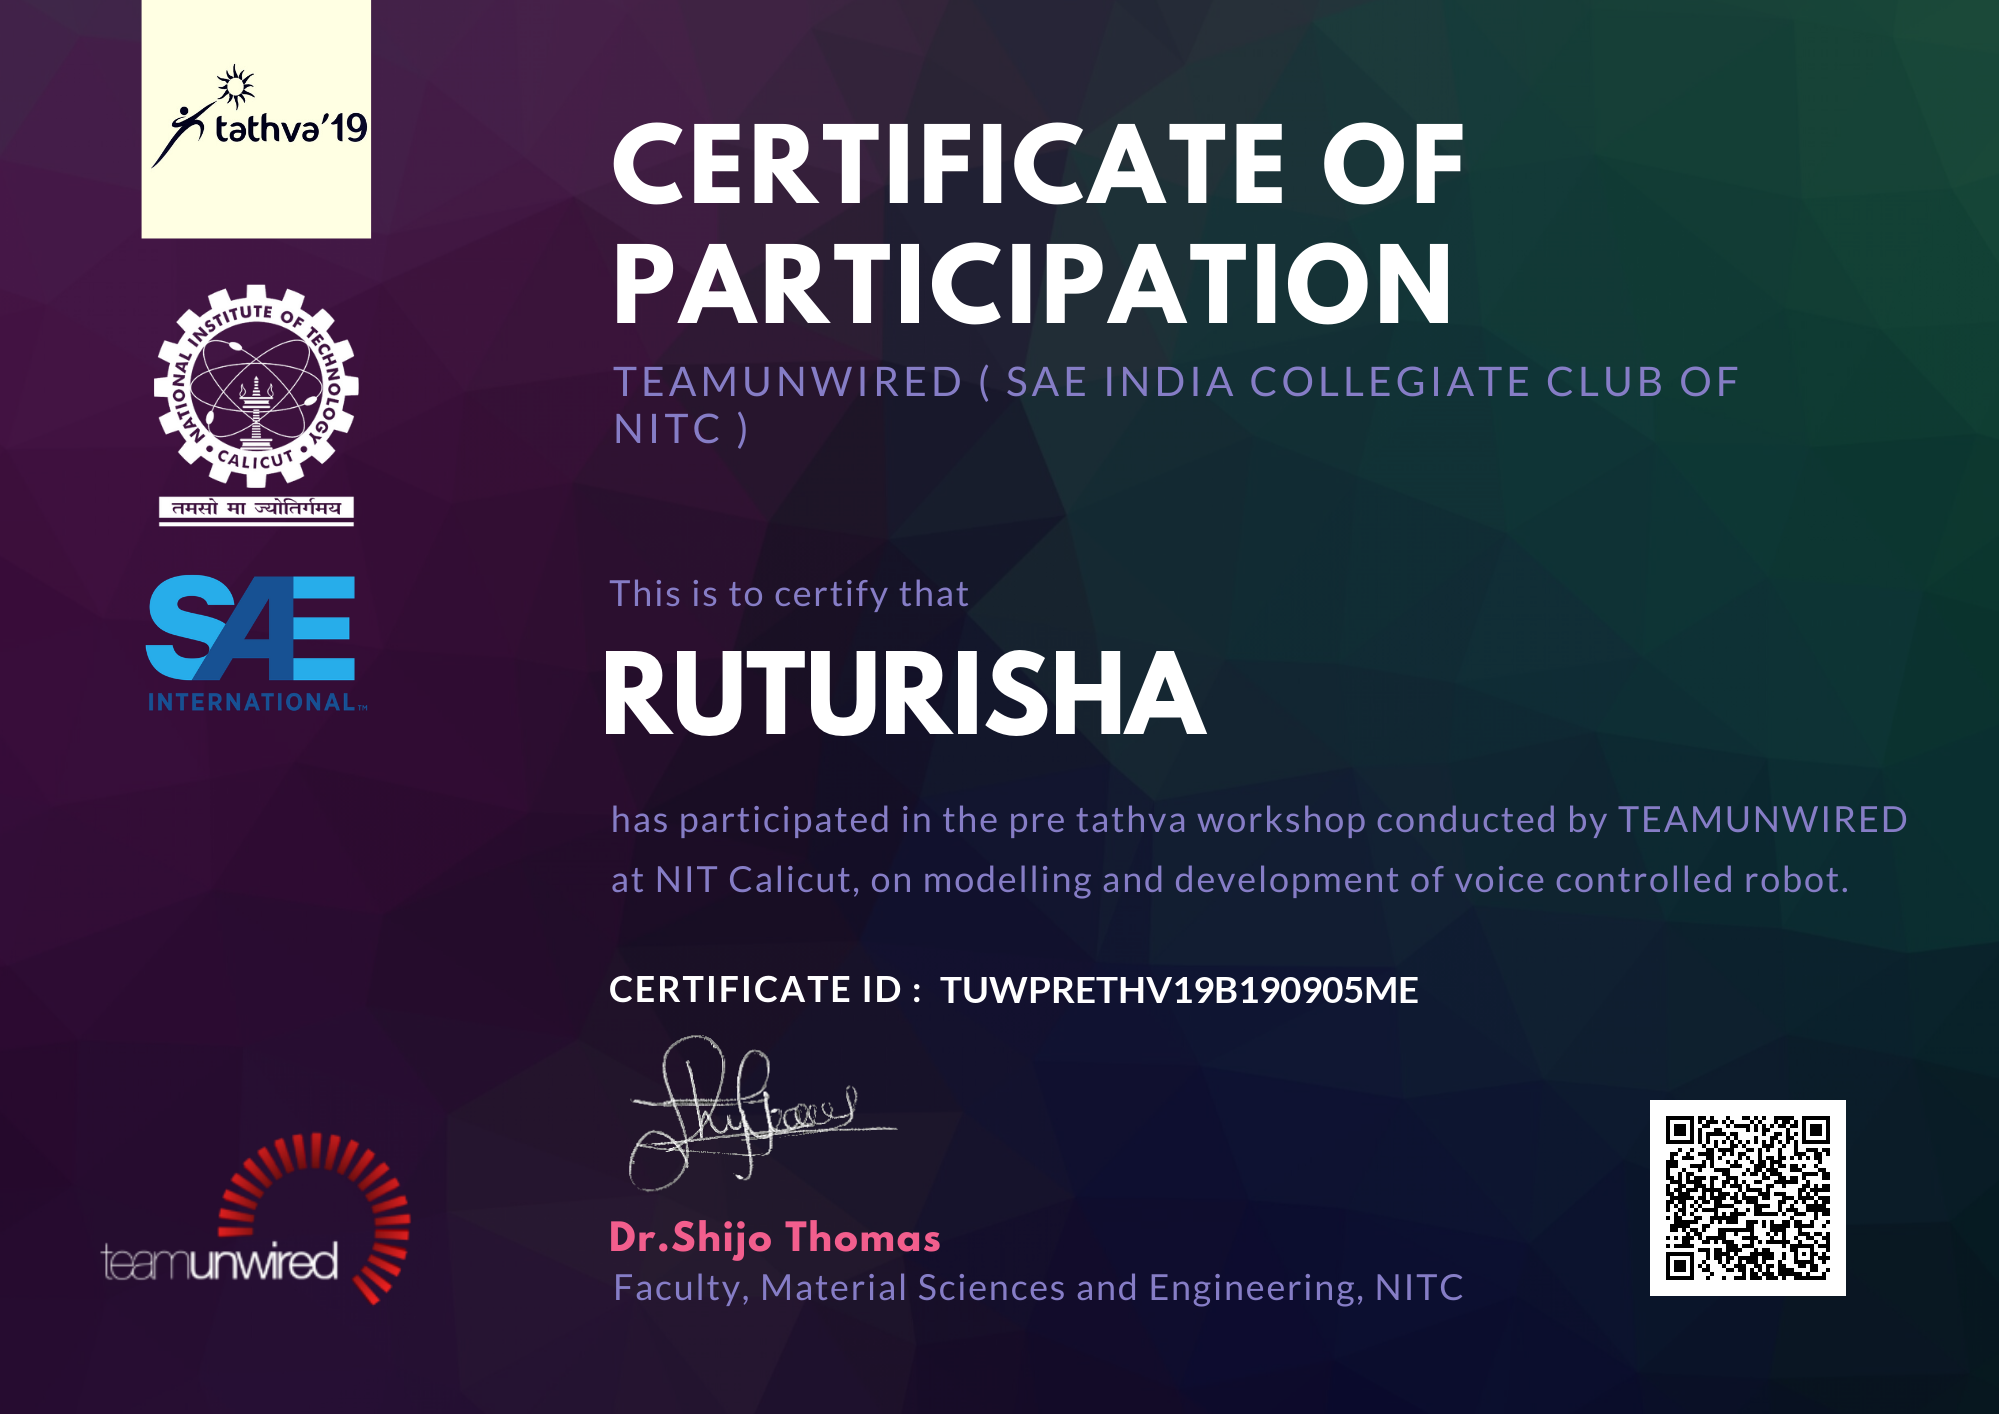
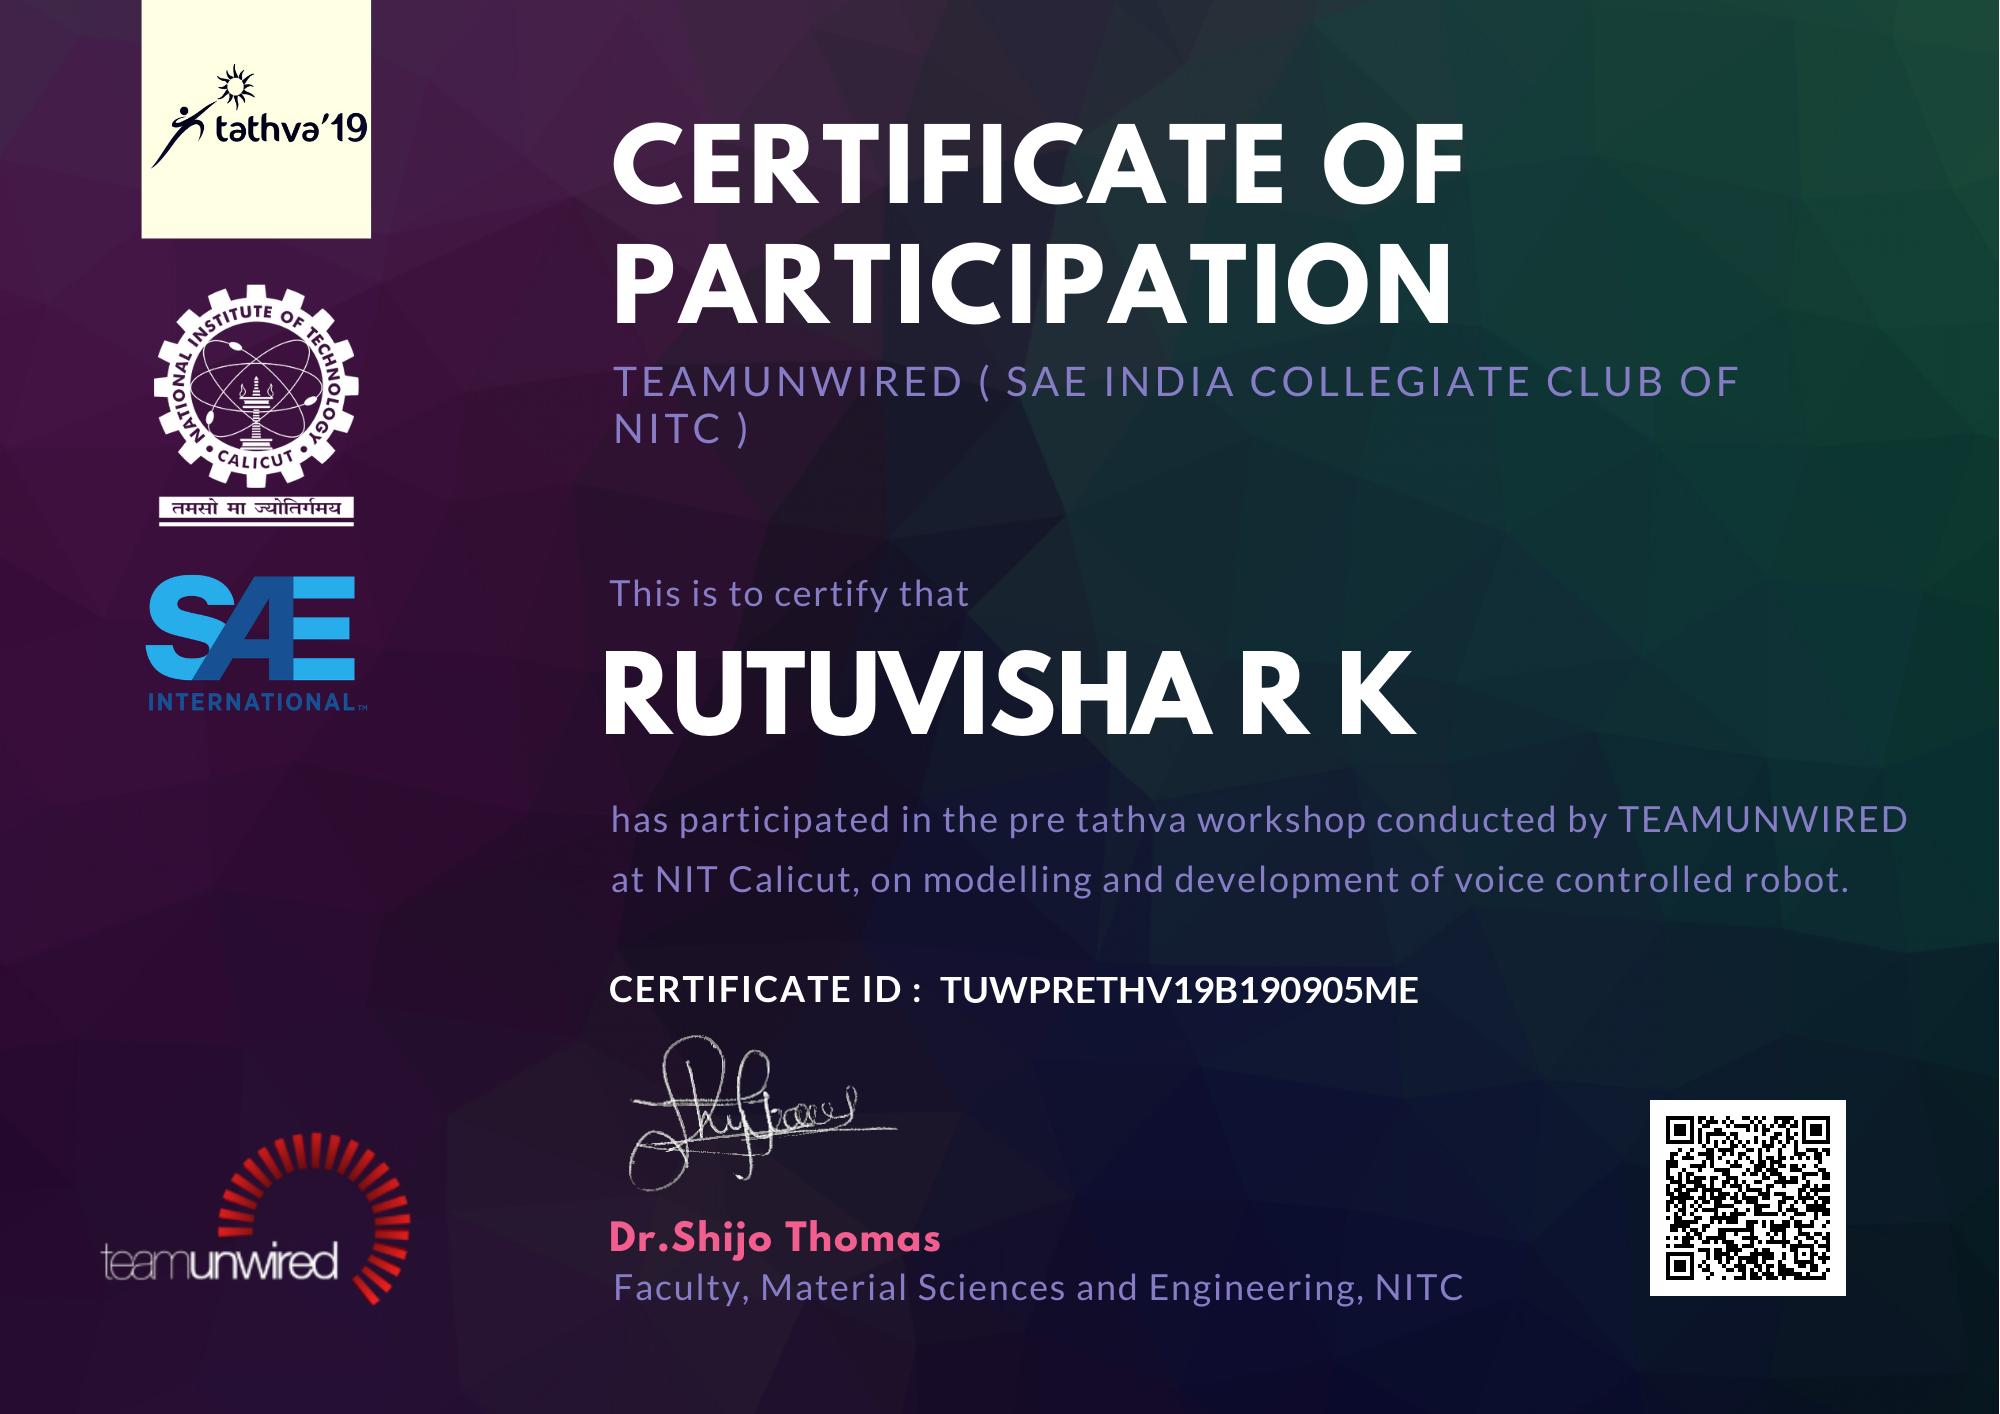
Corrections Updated

Changed region(s): [[0.434, 0.4356, 0.713, 0.529]]

diff --git a/index.html b/index.html
@@ -64,7 +64,7 @@
     </nav>
 </section>
 
-<section class="engine"><a href="https://mobirise.info/z">best free website templates</a></section><section class="header9 cid-rlma67RTqq mbr-fullscreen mbr-parallax-background" id="header9-0">
+<section class="engine"><a href="https://mobirise.info/f">simple web creator</a></section><section class="header9 cid-rlma67RTqq mbr-fullscreen mbr-parallax-background" id="header9-0">
 
     
 
@@ -405,7 +405,7 @@
         <div class="row justify-content-center">
             <div class="media-container-column col-lg-8" data-form-type="formoid">
                 <!---Formbuilder Form--->
[2 lines of base64/hex data omitted]
                     <div class="row">
                         <div hidden="hidden" data-form-alert="" class="alert alert-success col-12">Your message was successfully submitted !</div>
                         <div hidden="hidden" data-form-alert-danger="" class="alert alert-danger col-12">

diff --git a/page1.html b/page1.html
@@ -66,7 +66,7 @@
     </nav>
 </section>
 
-<section class="engine"><a href="https://mobirise.info/u">bootstrap html templates</a></section><section class="header6 cid-rK8U0vHxql mbr-fullscreen" data-bg-video="https://www.youtube.com/watch?v=vtjmOl8EJm0" id="header6-r">
+<section class="engine"><a href="https://mobirise.info/y">free html web templates</a></section><section class="header6 cid-rK8U0vHxql mbr-fullscreen" data-bg-video="https://www.youtube.com/watch?v=vtjmOl8EJm0" id="header6-r">
 
     
 

diff --git a/page3.html b/page3.html
@@ -64,7 +64,7 @@
     </nav>
 </section>
 
-<section class="engine"><a href="https://mobirise.info/y">html site templates</a></section><section class="header11 cid-rM3UGAi9Zp mbr-fullscreen mbr-parallax-background" id="header11-1j">
+<section class="engine"><a href="https://mobirise.info/i">website creation software</a></section><section class="header11 cid-rM3UGAi9Zp mbr-fullscreen mbr-parallax-background" id="header11-1j">
 
     <!-- Block parameters controls (Blue "Gear" panel) -->
     

diff --git a/page4.html b/page4.html
@@ -64,7 +64,7 @@
     </nav>
 </section>
 
-<section class="engine"><a href="https://mobirise.info/h">how to create your own web page for free</a></section><section class="header1 cid-s0iMUeXvmG mbr-parallax-background" id="header1-25">
+<section class="engine"><a href="https://mobirise.info/b">how to create a site</a></section><section class="header1 cid-s0iMUeXvmG mbr-parallax-background" id="header1-25">
 
     
 

diff --git a/page2.html b/page2.html
@@ -64,7 +64,7 @@
     </nav>
 </section>
 
-<section class="engine"><a href="https://mobirise.info/v">free html templates</a></section><section class="cid-rKd7kPdZ2Q mbr-fullscreen mbr-parallax-background" id="header2-14">
+<section class="engine"><a href="https://mobirise.info/c">website builder</a></section><section class="cid-rKd7kPdZ2Q mbr-fullscreen mbr-parallax-background" id="header2-14">
 
     
 

diff --git a/verification/B190905ME.html b/verification/B190905ME.html
@@ -130,7 +130,7 @@
                             </div>                
 
                             <div class="card-box">
-                                <p class="block-text mbr-fonts-style display-5"><em>Ruturisha</em></p>
+                                <p class="block-text mbr-fonts-style display-5"><em>Rutuvisha R K</em></p>
                             </div>
                         </div>
 
